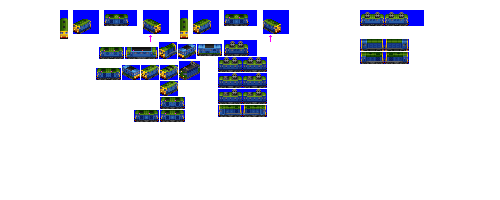
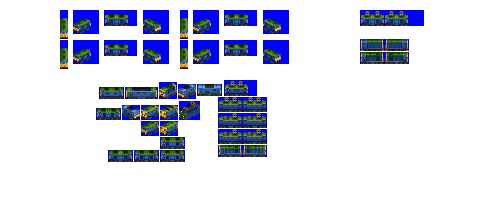
Change: more WIP on Peasweep, Moor Gallop

diff --git a/src/gestalt_graphics/pipelines.py b/src/gestalt_graphics/pipelines.py
@@ -135,7 +135,13 @@ class Pipeline(object):
 
         # !! these hard-coded values should really be using graphics_constants.spriterow_height etc
         # !! this approach won't work when custom buy menu sprites are used - there aren't many of those, just draw in the buy menu sprite pantographs in that case?
-        buy_menu_sprites = pantograph_output_image.copy().crop((224, 70, 257, 116))
+        if len(self.consist.units) > 1:
+            # this is silly, it copies the custom buy menu sprite and reinserts it
+            # this to avoid wrapping a conditional around self.units.append(AddBuyMenuSprite...) below
+            # but eh, hitting complexity limits here IMHO
+            buy_menu_sprites = vehicle_input_image.copy().crop((360, 10, 393, 56))
+        else:
+            buy_menu_sprites = pantograph_output_image.copy().crop((224, 70, 257, 116))
 
         pantograph_spritesheet = self.make_spritesheet_from_image(pantograph_output_image)
         pantograph_output_path = os.path.join(currentdir, 'generated', 'graphics', self.consist.id + '_pantographs.png')
